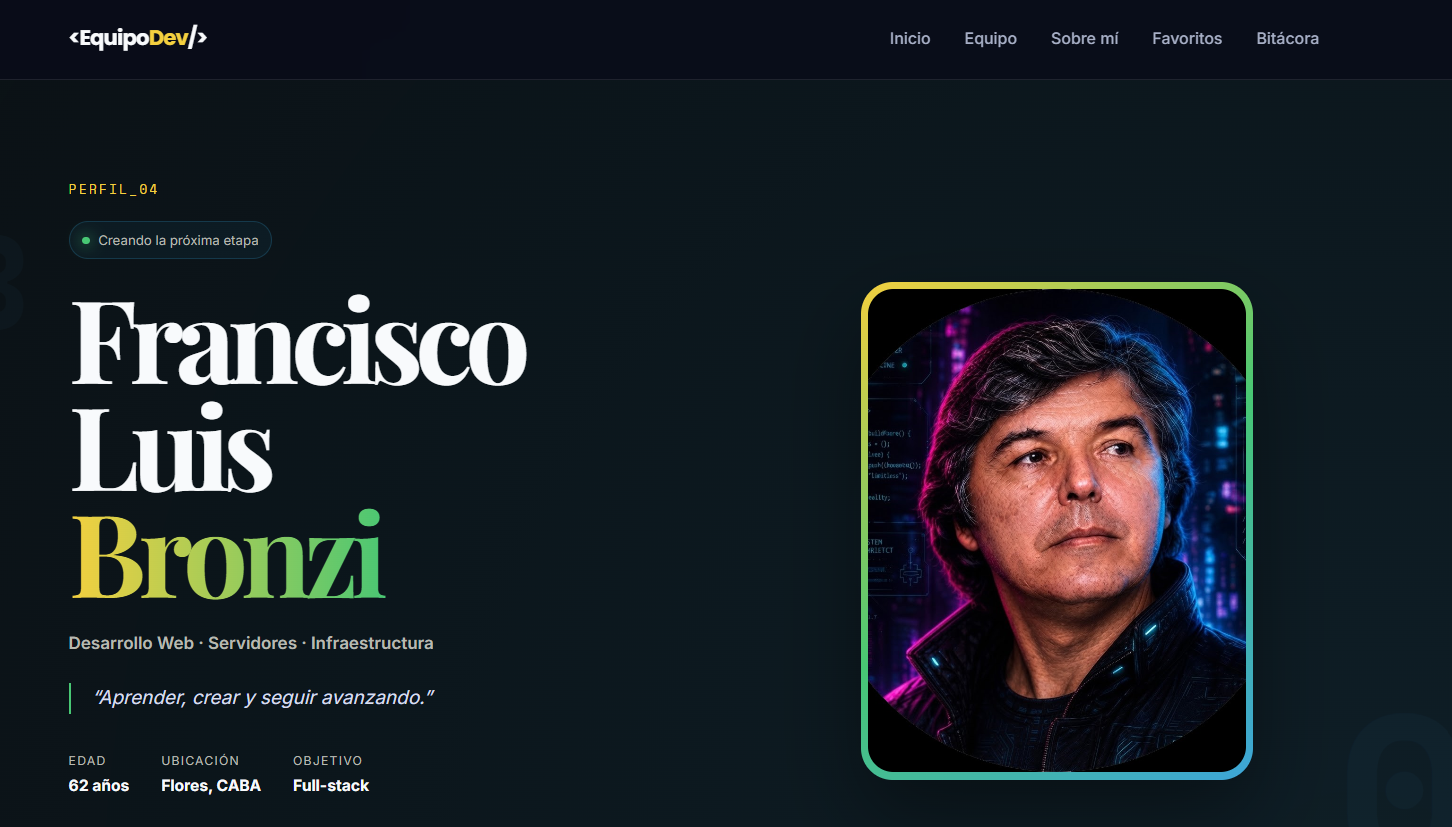
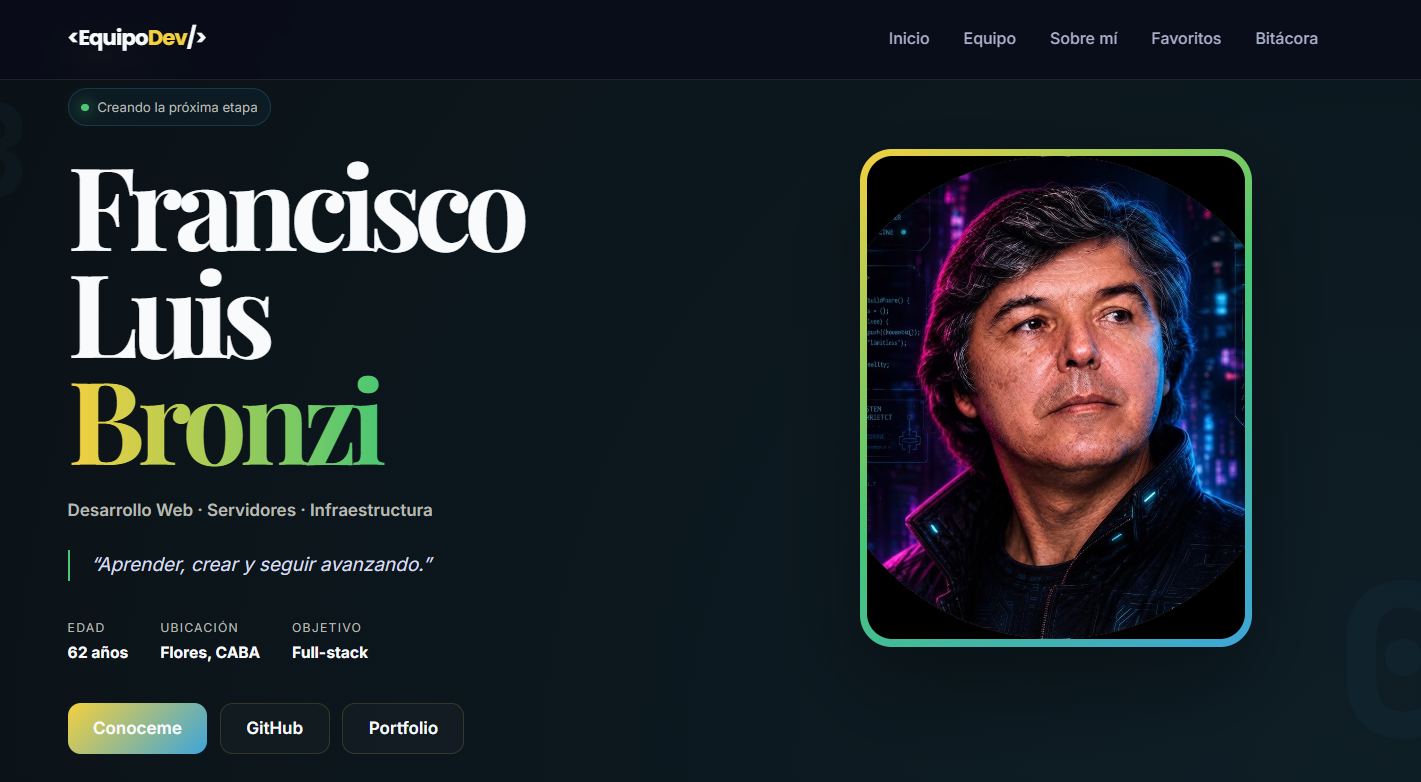
continuan actualizacion de readme

diff --git a/README.md b/README.md
@@ -190,10 +190,13 @@ Propuestas proyectadas para futuras etapas del proyecto:
 
 ## 🤖 10. Uso de IA y Criterio de Privacidad (Autoría)
 
-* **Herramientas y Modelos:** Se utilizaron modelos de lenguaje (ChatGPT de OpenAI y Claude de Anthropic) en sus planes gratuitos para consulta técnica y asistencia en redacción.
+* **Herramientas y Modelos:** Se utilizaron modelos de lenguaje (ChatGPT de OpenAI y Claude de Anthropic) en sus planes gratuitos para consulta técnica y asistencia en redacción. Para la generación de los avatares se utilizó además **Gemini** (Google, plan gratuito) y **ChatGPT Plus** (OpenAI, plan pago).
+* **Experiencia previa del equipo:** los integrantes cuentan con distintos niveles de experiencia previa en el uso de herramientas de IA generativa — algunos ya las habían utilizado en trabajos anteriores, mientras que para otros fue una de las primeras veces aplicándolas a un proyecto de código.
 * **Asistencia Técnica:**
   * Estructuración inicial de plantillas semánticas en HTML5 y atributos ARIA de accesibilidad.
   * Optimización de variables CSS y reglas de especificidad en los selectores temáticos.
   * Debugging de lógica en event listeners para los módulos interactivos en JavaScript Vanilla.
 * **Avatares y Recursos Gráficos:** Las imágenes de avatares fueron tratadas y optimizadas para web en formato `.jpg`/`.webp`, priorizando una identidad visual uniforme.
+  * Los avatares de **Martina Bistagnino, Jorge Caliz, Francisco Luis Bronzi y Martín Roige** se generaron con **ChatGPT Plus** (plan pago), a cargo de Martina Bistagnino, con un criterio visual de estilo **cyberpunk** aplicado como fondo/ambientación en los cuatro casos.
+  * El avatar de **Gabriela Dalila Contrera** se generó con **Gemini** (plan gratuito), proporcionando como referencia una foto propia, una foto de su mascota y la imagen de estilo del avatar de Martina, solicitando un resultado visual similar.
 * **Criterio de Validación y Autoría:** Cada sugerencia producida por herramientas de IA fue revisada, modificada y probada individualmente por el equipo. El código CSS, la arquitectura de archivos y la lógica de interacción final reflejan decisiones y desarrollo propio de los integrantes del grupo.
